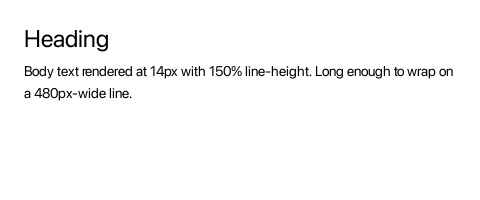
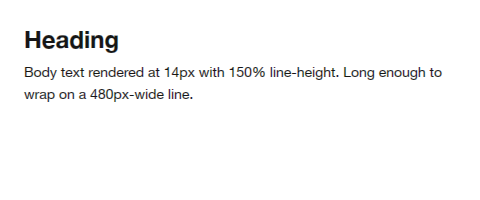
fix(guide): render the figures every deploy, and delete the cache that froze them
The guide's azul-render figures were three months old. hello-world.png showed
the body jammed into the top-left corner with no margins and the button hard
against it; text-heading.png rendered its <h1> at regular weight; inline-prose
was captioned "justifies" and was ragged-right. Every one of those is a bug
that has since been fixed - they were just fixed after the pictures were taken.

The cause was the cache. Each PNG had a <name>.png.hash sidecar holding a hash
of the block's own XML plus a hand-maintained SCREENSHOT_RENDERER_VERSION
constant, and that constant is the only part that could represent the renderer.
It was set to "v1" on 2026-05-02 and never moved again. layout/src took 911
commits after that date, 173 of them in text3, including the whole July shaping
and hinting wave. The hashes all matched throughout, so the deploy re-rendered
nothing and shipped the May pixels.

A cache key a human has to remember to bump is not a cache key. It is a trap
that springs quietly, and the thing it hides is precisely the improvement you
just made.

So the cache is gone. render_all_screenshots renders every block, every time.
The full set is 5.9 seconds with azul-doc already built, against three months
of showing fixed bugs to readers - there is no version of that trade worth
making. The sidecars are deleted with it.

Rendering is now FATAL on the deploy path. It was a WARN, which was safe only
because it never ran: with every hash matching, the renderer was never invoked
[…]

Changed region(s): [[0.0312, 0.33, 0.9375, 0.42], [0.0312, 0.42, 0.4062, 0.51], [0.0312, 0.15, 0.25, 0.27]]

diff --git a/doc/src/reftest/autodoc.rs b/doc/src/reftest/autodoc.rs
@@ -1970,37 +1970,23 @@ fn window_chrome_html(
     )
 }
 
-// Bumped when the rendering pipeline (envelope, layout, default fonts, …)
-// changes in a way that should invalidate every cached screenshot.
-const SCREENSHOT_RENDERER_VERSION: &str = "v1";
-
-/// Hash of the inputs that determine the *pixel content* of a rendered
-/// screenshot. `subtitle` and `slideshow` are deliberately excluded — they
-/// only affect the surrounding HTML, not the PNG.
-pub fn block_render_hash(block: &RenderBlock) -> String {
-    let mut h = Sha256::new();
-    h.update(SCREENSHOT_RENDERER_VERSION.as_bytes());
-    h.update([0u8]);
-    h.update(block.name.as_bytes());
-    h.update([0u8]);
-    h.update(block.width.to_le_bytes());
-    h.update(block.height.to_le_bytes());
-    h.update([0u8]);
-    h.update(block.xml.as_bytes());
-    let result = h.finalize();
-    let mut hex = String::with_capacity(64);
-    for b in result {
-        use std::fmt::Write;
-        let _ = write!(hex, "{:02x}", b);
-    }
-    hex
-}
-
-/// Walk every guide page, collect `azul-render` blocks, and re-render any
-/// PNG whose sidecar hash file is missing or stale. Returns
-/// `(re_rendered, skipped)` counts. Initialises the heavy font context
-/// lazily — only if at least one block needs to be (re-)rendered.
-pub fn render_stale_screenshots(project_root: &Path) -> Result<(usize, usize), String> {
+/// Walk every guide page, collect `azul-render` blocks, and render every one
+/// of them to PNG. Returns `(rendered, failed)`.
+///
+/// There is NO CACHE, deliberately. There used to be: a `<name>.png.hash`
+/// sidecar holding a hash of the block's XML plus a hand-maintained
+/// `SCREENSHOT_RENDERER_VERSION` constant. It could not work, because what
+/// decides these pixels is the renderer, and the sidecar could not see it. The
+/// constant was set on 2026-05-02 and never bumped again while layout/src took
+/// 911 commits — 173 of them in text3, including the July shaping and hinting
+/// fixes. So the guide still shipped the May renders: hello-world showed the
+/// body jammed into the top-left corner with no margins, which is precisely
+/// the bug those commits fixed.
+///
+/// The whole set renders in 5.9 seconds with azul-doc already built. That is
+/// not worth a cache, and certainly not one that silently serves three-month-old
+/// pictures of fixed bugs.
+pub fn render_all_screenshots(project_root: &Path) -> Result<(usize, usize), String> {
     let guide_dir = project_root.join("doc/guide");
 
     let mut pages = Vec::new();
@@ -2021,53 +2007,36 @@ pub fn render_stale_screenshots(project_root: &Path) -> Result<(usize, usize), S
         }
     }
 
-    // First pass: figure out which blocks are stale, without paying for
-    // font-context init if everything is already up-to-date.
-    let mut stale: Vec<(String, RenderBlock, String)> = Vec::new();
-    let mut skipped = 0usize;
+    let mut work: Vec<(String, RenderBlock)> = Vec::new();
     for (lang, blocks) in &by_lang {
-        let dir = guide_dir.join(lang).join("screenshots");
         for block in blocks {
-            let png = dir.join(format!("{}.png", block.name));
-            let hash_file = dir.join(format!("{}.png.hash", block.name));
-            let want = block_render_hash(block);
-            let have = fs::read_to_string(&hash_file).ok();
-            if png.exists() && have.as_deref() == Some(want.as_str()) {
-                skipped += 1;
-            } else {
-                stale.push((lang.clone(), block.clone(), want));
-            }
+            work.push((lang.clone(), block.clone()));
         }
     }
 
-    if stale.is_empty() {
-        return Ok((0, skipped));
+    if work.is_empty() {
+        return Ok((0, 0));
     }
 
-    println!(
-        "Regenerating {} stale screenshot(s) ({} up-to-date)...",
-        stale.len(),
-        skipped,
-    );
+    println!("Rendering {} guide screenshot(s)...", work.len());
     let font_context = init_screenshot_font_context()?;
     let mut rendered = 0usize;
-    for (lang, block, want_hash) in &stale {
+    let mut failed = 0usize;
+    for (lang, block) in &work {
         let dir = guide_dir.join(lang).join("screenshots");
         fs::create_dir_all(&dir)
             .map_err(|e| format!("mkdir {}: {}", dir.display(), e))?;
         let png = dir.join(format!("{}.png", block.name));
-        let hash_file = dir.join(format!("{}.png.hash", block.name));
         match render_xml_to_png(&font_context, &block.xml, &png, block.width, block.height) {
             Ok(()) => {
-                fs::write(&hash_file, want_hash)
-                    .map_err(|e| format!("write {}: {}", hash_file.display(), e))?;
-                println!("  [{}/regen] {}.png ({}x{})", lang, block.name, block.width, block.height);
+                println!("  [{}/ok] {}.png ({}x{})", lang, block.name, block.width, block.height);
                 rendered += 1;
             }
             Err(e) => {
                 eprintln!("  [{}/fail] {}: {}", lang, block.name, e);
+                failed += 1;
             }
         }
     }
-    Ok((rendered, skipped))
+    Ok((rendered, failed))
 }

diff --git a/doc/src/main.rs b/doc/src/main.rs
@@ -1817,18 +1817,23 @@ fn main() -> anyhow::Result<()> {
                 println!("  [OK] Generated: {}", path);
             }
 
-            // Re-render any azul-render screenshots whose source XML has
-            // changed since the last deploy. The hash sidecars under
-            // doc/guide/en/screenshots/<name>.png.hash track the inputs.
-            match reftest::autodoc::render_stale_screenshots(&project_root) {
-                Ok((re, sk)) if re > 0 => {
-                    println!("  [OK] Re-rendered {} screenshot(s), {} up-to-date", re, sk);
+            // Render every azul-render figure in the guide, every time. The
+            // whole set is 5.9s; see render_all_screenshots for why there is no
+            // longer a cache. A failure is FATAL: these figures are part of the
+            // page, and a docs site with missing ones is worse than a late one.
+            match reftest::autodoc::render_all_screenshots(&project_root) {
+                Ok((ok, 0)) => {
+                    println!("  [OK] Rendered {} guide screenshot(s)", ok);
                 }
-                Ok((_, sk)) => {
-                    println!("  [OK] {} screenshot(s) already up-to-date", sk);
+                Ok((ok, failed)) => {
+                    anyhow::bail!(
+                        "{} of {} guide screenshot(s) failed to render",
+                        failed,
+                        ok + failed,
+                    );
                 }
                 Err(e) => {
-                    eprintln!("  [WARN] Screenshot regeneration failed: {}", e);
+                    anyhow::bail!("Screenshot rendering failed: {e}");
                 }
             }
 
